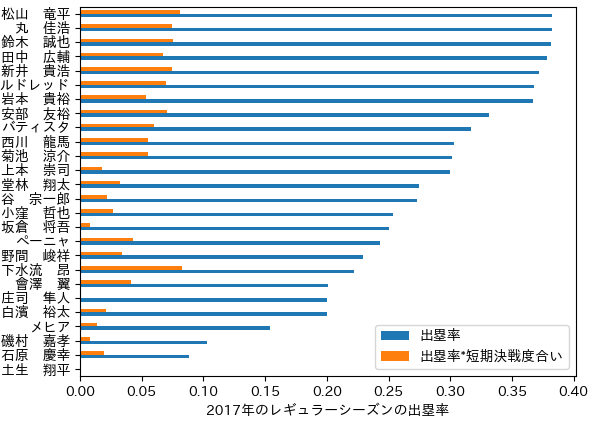
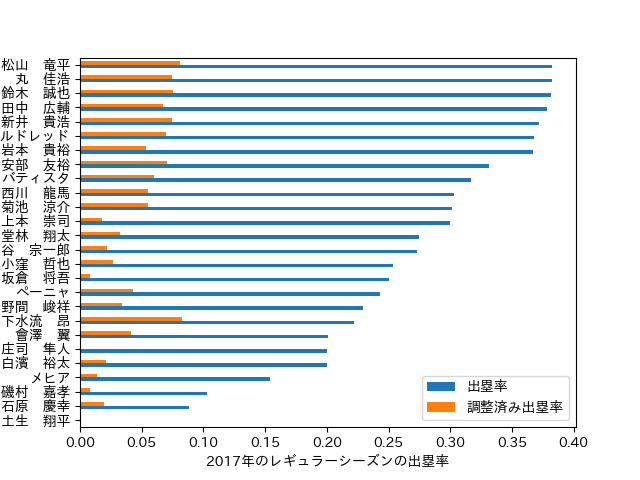
fix legend

diff --git a/experiments/check_adjusted.py b/experiments/check_adjusted.py
@@ -43,8 +43,8 @@ if __name__ == '__main__':
     X_box = X_train.groupby('uid').last().reset_index()
 
     X_box['出塁率'] = (X_box['プレイ前アウト数'] == X_box['プレイ前アウト数'].shift(-1))
-    X_box['出塁率*短期決戦度合い'] = X_box['出塁率'] * (1 - X_box['Probability of regular season'])
-    X_player = X_box.groupby('選手名_b').mean()[['出塁率', '出塁率*短期決戦度合い']].sort_values('出塁率').reset_index()
+    X_box['調整済み出塁率'] = X_box['出塁率'] * (1 - X_box['Probability of regular season'])
+    X_player = X_box.groupby('選手名_b').mean()[['出塁率', '調整済み出塁率']].sort_values('出塁率').reset_index()
     X_player.index = X_player['選手名_b']
 
     japanize_matplotlib.japanize()
